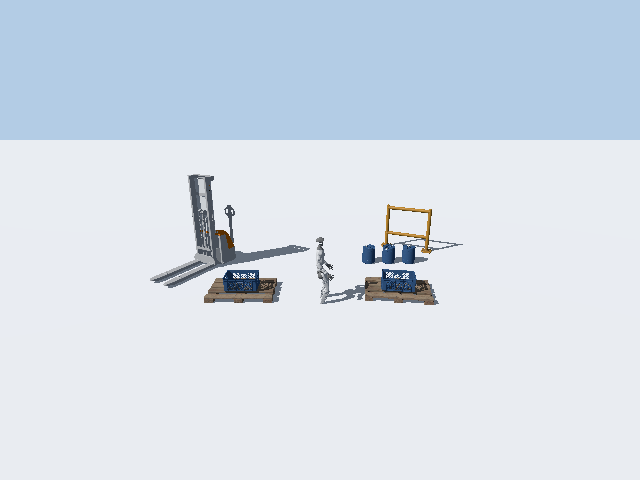
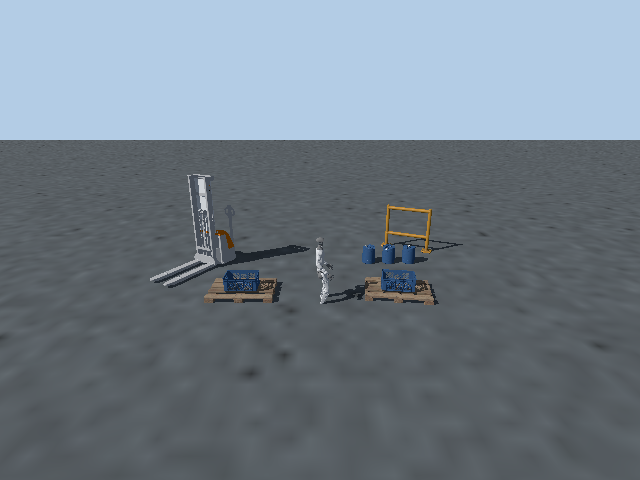
Preserve box textures and correct the ground comparisons

diff --git a/src/mjlab_hyperlux/geometry.py b/src/mjlab_hyperlux/geometry.py
@@ -1,0 +1,57 @@
+"""MuJoCo box geometry and texture coordinates for mesh-based renderers."""
+
+import mujoco
+import numpy as np
+import trimesh
+from PIL import Image
+from trimesh.visual.material import PBRMaterial
+from trimesh.visual.texture import TextureVisuals
+
+
+def box_mesh(
+  model: mujoco.MjModel, geom: int, textures: bool = True
+) -> trimesh.Trimesh:
+  """Build a box with sharp normals and MuJoCo Warp's per-face UV mapping."""
+  mesh = trimesh.creation.box(extents=2 * model.geom_size[geom])
+  vertices = np.asarray(mesh.vertices)[mesh.faces.ravel()]
+  normals = np.repeat(mesh.face_normals, 3, axis=0)
+  mesh = trimesh.Trimesh(
+    vertices=vertices,
+    faces=np.arange(len(vertices)).reshape(-1, 3),
+    vertex_normals=normals,
+    process=False,
+  )
+  mat = int(model.geom_matid[geom])
+  if not textures or mat < 0:
+    return mesh
+  tex = int(model.mat_texid[mat, mujoco.mjtTextureRole.mjTEXROLE_RGB])
+  if tex < 0 or model.tex_type[tex] != mujoco.mjtTexture.mjTEXTURE_2D:
+    return mesh
+
+  # Each face needs its own corners: adjacent faces have different UVs.
+  x, y, z = (vertices / model.geom_size[geom]).T
+  uv = np.empty((len(vertices), 2))
+  for axis, sign, u, v in (
+    (2, 1, x, -y),
+    (2, -1, x, y),
+    (0, 1, y, -z),
+    (0, -1, -y, -z),
+    (1, -1, x, -z),
+    (1, 1, -x, -z),
+  ):
+    face = normals[:, axis] == sign
+    uv[face] = np.column_stack((u[face], v[face])) * 0.5 + 0.5
+  uv *= model.mat_texrepeat[mat]
+  if model.mat_texuniform[mat]:
+    uv *= model.geom_size[geom, :2]
+  h, w, c = model.tex_height[tex], model.tex_width[tex], model.tex_nchannel[tex]
+  start = model.tex_adr[tex]
+  pixels = model.tex_data[start : start + h * w * c].reshape(h, w, c)
+  mesh.visual = TextureVisuals(
+    uv=uv,
+    material=PBRMaterial(
+      baseColorTexture=Image.fromarray(np.flipud(pixels)),
+      baseColorFactor=model.mat_rgba[mat],
+    ),
+  )
+  return mesh

diff --git a/src/mjlab_hyperlux/renderer.py b/src/mjlab_hyperlux/renderer.py
@@ -31,6 +31,7 @@ from torch.utils.dlpack import from_dlpack
 from warp._src.context import Device
 
 from mjlab_hyperlux.config import HyperLuxCameraSensorCfg
+from mjlab_hyperlux.geometry import box_mesh
 
 
 @wp.kernel
@@ -129,14 +130,7 @@ def _object(model: mujoco.MjModel, geom: int, textures: bool, fidelity: str):
     # A shared-vertex cube gets smoothed corner normals from trimesh. Boxes
     # need discontinuous face normals: smoothing makes room walls look curved
     # under point lights and biases the origins of shadow/reflection rays.
-    vertices = np.asarray(mesh.vertices)[mesh.faces.ravel()]
-    normals = np.repeat(mesh.face_normals, 3, axis=0)
-    mesh = trimesh.Trimesh(
-      vertices=vertices,
-      faces=np.arange(len(vertices)).reshape(-1, 3),
-      vertex_normals=normals,
-      process=False,
-    )
+    mesh = box_mesh(model, geom, textures)
   mat = model.geom_matid[geom]
   rgba = model.mat_rgba[mat] if mat >= 0 else model.geom_rgba[geom]
   metallic = float(model.mat_metallic[mat]) if mat >= 0 else 0.0

diff --git a/tests/test_renderer.py b/tests/test_renderer.py
@@ -191,7 +191,8 @@ def test_rgb_with_raycast():
   scene.sensor_context.close()
 
 
-def test_textured_plane_and_separate_camera_batches():
+@pytest.mark.parametrize("floor_type", ["plane", "box"])
+def test_textured_primitives_and_separate_camera_batches(floor_type):
   xml = XML.replace(
     "<worldbody>",
     """<asset>
@@ -200,6 +201,8 @@ def test_textured_plane_and_separate_camera_batches():
     <material name="floor_mat" texture="tiles" texrepeat="4 4"/>
   </asset><worldbody>""",
   ).replace('size="4 4 .1" rgba=".3 .3 .3 1"', 'size="0 0 .1" material="floor_mat"')
+  if floor_type == "box":
+    xml = xml.replace('type="plane" size="0 0 .1"', 'type="box" size="4 4 .1"')
   cameras = (
     HyperLuxCameraSensorCfg(name="a", camera_name="world/cam", width=32, height=24),
     HyperLuxCameraSensorCfg(

diff --git a/README.md b/README.md
@@ -5,8 +5,8 @@
 and hard shadows. MuJoCo Warp still handles physics, depth, segmentation
 and raycasts.
 
-On an RTX 4090, HyperLux AA1 rendered our six moving-robot scenes **3.62x to
-7.47x faster than Warp** at 4096 environments and 640x480. Results depend on
+In the original RTX 4090 measurements, HyperLux AA1 rendered our six scenes
+**3.62x to 7.47x faster than Warp** at 4096 environments and 640x480. Results depend on
 the scene and rendering settings; the measurements below exclude physics
 and policy inference.
 
@@ -60,7 +60,8 @@ RTX 4090, 4096 environments, one 640x480 RGB camera per environment. Cameras
 and lights are fixed; robot roots move sideways with fixed joints. All
 replicas use the same motion phase. HyperLux uses AA1 and batch 128; Warp
 uses native RGB. The Warp timings below predate the blue-sky update and
-used a black background; the three sunlit scenes will be remeasured.
+used a black background. The warehouse and outdoor HyperLux/RTX measurements
+also predate a box-texture fix. Those results are being refreshed.
 
 Throughput is aggregate images per second. Speedup is HyperLux / Warp.
 
@@ -105,7 +106,8 @@ AA1 with hard shadows; RTX uses DLAA, four direct samples, eight ray bounces
 and fixed exposure (f/5, 1/50 s, ISO 100). Light intensities are converted for
 each backend. Sunlit RTX scenes also use a sky dome.
 
-The same lighting calibration is shared across scenes. HyperLux's diffuse-fill
+The ground and walls use the same source textures across backends, including
+box-shaped surfaces. The same lighting calibration is shared across scenes. HyperLux's diffuse-fill
 estimate does not reproduce RTX global illumination. Windowed rooms can look
 brighter and flatter, and some warehouse areas darker. HyperLux and Warp use
 a matching solid blue background in sunlit scenes; this adds no illumination.

diff --git a/docs/usage.md b/docs/usage.md
@@ -52,7 +52,8 @@ packed into one asset to reduce pose-update work.
 
 ## Lighting and supported features
 
-The backend supports perspective cameras, textures, normal and packed ORM
+The backend supports perspective cameras, 2D textures on meshes, planes and
+boxes, normal and packed ORM
 maps, moving cameras and objects, and hard shadows from directional, point
 and spot lights. Set `hyperlux_background` for the background RGB color.
 
